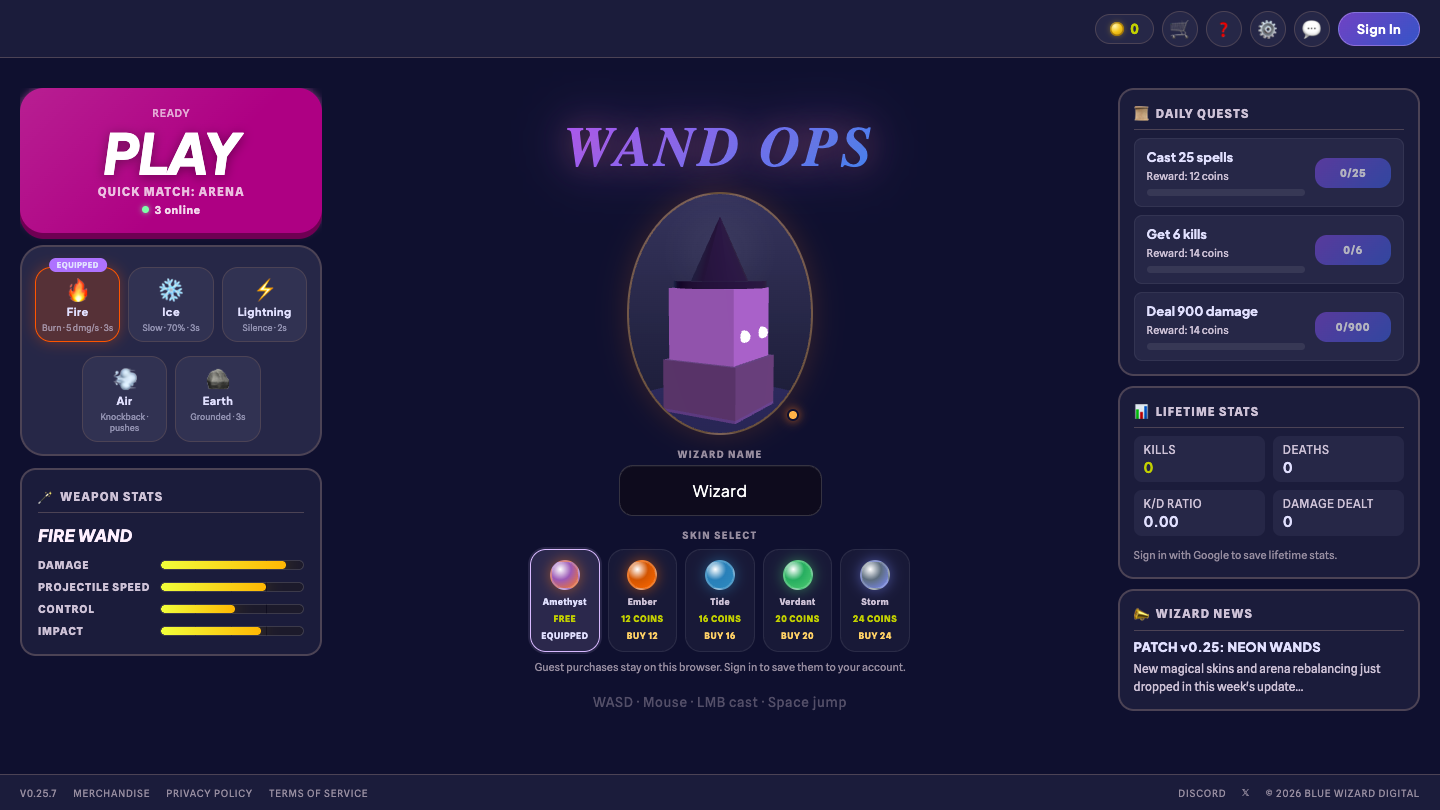
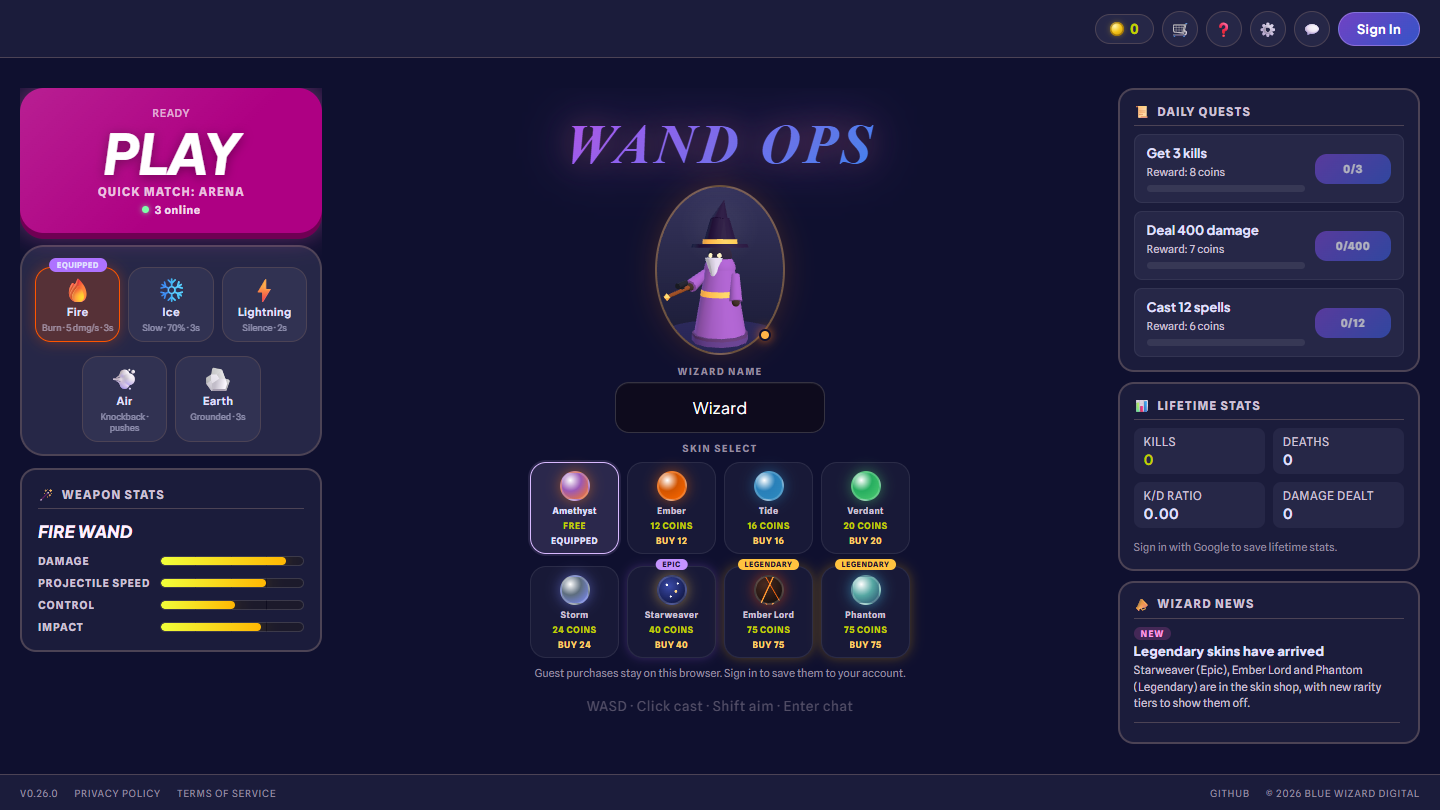
Refresh the README and lobby screenshot for recent changes
Updates controls (Shift to aim, Enter to chat), the Node requirement for
Vite 8, features (sound, settings, skin rarities, chat, abuse protection),
the project structure (collision.js, audio.js, news.js, public pages), and
adds an "Updating the game" section for news, version and skins. Replaces
docs/lobby.png with a current 1440x810 capture.

diff --git a/README.md b/README.md
@@ -10,7 +10,7 @@ Built with [Three.js](https://threejs.org/) and [Vite](https://vitejs.dev/). Mul
 
 ## Features
 
-- **Quick Match arena**: a castle with walls, towers, stairs, ladders, ramps, a fountain and ruins to climb and jump on.
+- **Quick Match arena**: a castle with walls, climbable towers, stairs, ladders and raised platforms, plus courtyard cover, ruins and boulders to fight around. Respawns pick a spot away from enemies.
 - **Five spells**, each with its own effect:
 
   | Spell | Effect |
@@ -22,9 +22,13 @@ Built with [Three.js](https://threejs.org/) and [Vite](https://vitejs.dev/). Mul
   | 🪨 Earth | Grounds the target (no jumping) for 3s |
 
 - **Bots** fill the lobby to three combatants: 1 human gets 2 bots, 2 humans get 1 bot, and 3 or more humans get none. The lowest-numbered human runs the bots and everyone else mirrors them.
-- **Coins and skins**: every kill earns a coin and daily quests pay more. Spend coins on skins.
+- **Coins and skins**: every kill earns a coin and daily quests pay more. Spend coins on skins in four rarity tiers, from common recolours up to Epic and Legendary skins with glowing patterns or a translucent robe.
+- **Sound**: synthesized sound effects, including a distinct hit sound for each spell, a kill chime and a low-health heartbeat.
+- **Settings**: mouse sensitivity, field of view, volume and mute, and an FPS counter toggle, saved in the browser.
+- **Chat**: from the lobby, or press Enter in a match.
 - **Accounts**: sign in with Google to keep coins and lifetime stats across devices.
-- **Scoreboard, kill feed and chat.**
+- **Scoreboard and kill feed.**
+- **Abuse protection**: each client rate-limits and validates incoming multiplayer events, so one modified client can't flood or spoof others.
 
 ![Wand Ops lobby](docs/lobby.png)
 
@@ -35,14 +39,15 @@ Built with [Three.js](https://threejs.org/) and [Vite](https://vitejs.dev/). Mul
 | W A S D | Move |
 | Mouse | Look around |
 | Left click | Cast your spell |
-| Right click (hold) | Aim down the scope |
+| Shift (hold) | Aim down the scope |
 | Space | Jump |
 | Tab (hold) | Scoreboard |
+| Enter | Chat (Enter sends, Esc cancels) |
 | Esc | Back to the menu |
 
 ## Getting started
 
-Requires Node.js and npm.
+Requires Node.js 20.19+ or 22.12+ (Vite 8) and npm.
 
 ```bash
 npm install
@@ -81,20 +86,33 @@ Get the Photon app ID from the Photon dashboard. The Firebase values come from y
 
 ```
 index.html            Lobby UI and game container
-public/styles.css     Styles
+public/
+  styles.css          Styles
+  privacy.html        Privacy policy
+  terms.html          Terms of service
+  favicon.svg         Tab icon (plus favicon-32.png)
 src/
-  main.js             Game loop, match logic, bots, quests and shop
-  scene.js            Arena, lighting and colliders
-  player.js           Wizard model, movement state and effects
+  main.js             Game loop, match logic, bots, quests, shop, settings and chat
+  scene.js            Arena, lighting, colliders and spawn points
+  collision.js        Shared movement collision for players and bots
+  player.js           Wizard model, skins, movement state and effects
   controls.js         Keyboard and pointer-lock mouse input
-  fireball.js         Spell projectiles and collisions
+  fireball.js         Spell projectiles, visual effects and collisions
   bot.js              Bot AI
-  network.js          Photon networking
-  ui.js               HUD, kill feed and scoreboard
+  network.js          Photon networking and incoming-event rate limiting
+  audio.js            Synthesized sound effects
+  news.js             Wizard News entries shown in the lobby
+  ui.js               HUD, kill feed, minimap and scoreboard
   lib/
     firebase.js       Firebase and Google auth setup
     lifetime-stats.js Persistent stats and coins
 ```
+
+## Updating the game
+
+- **Wizard News**: add an entry to the top of `WIZARD_NEWS` in `src/news.js`, with `tag` set to `'new'` or `'update'` plus a `title` and a `body`.
+- **Version**: the lobby footer shows the `version` from `package.json`. Bump it with `npm version <x.y.z> --no-git-tag-version`.
+- **Skins**: add them to `PLAYER_SKINS` in `src/player.js`, then add a matching button to the skin picker in `index.html`.
 
 ## Deployment
 
